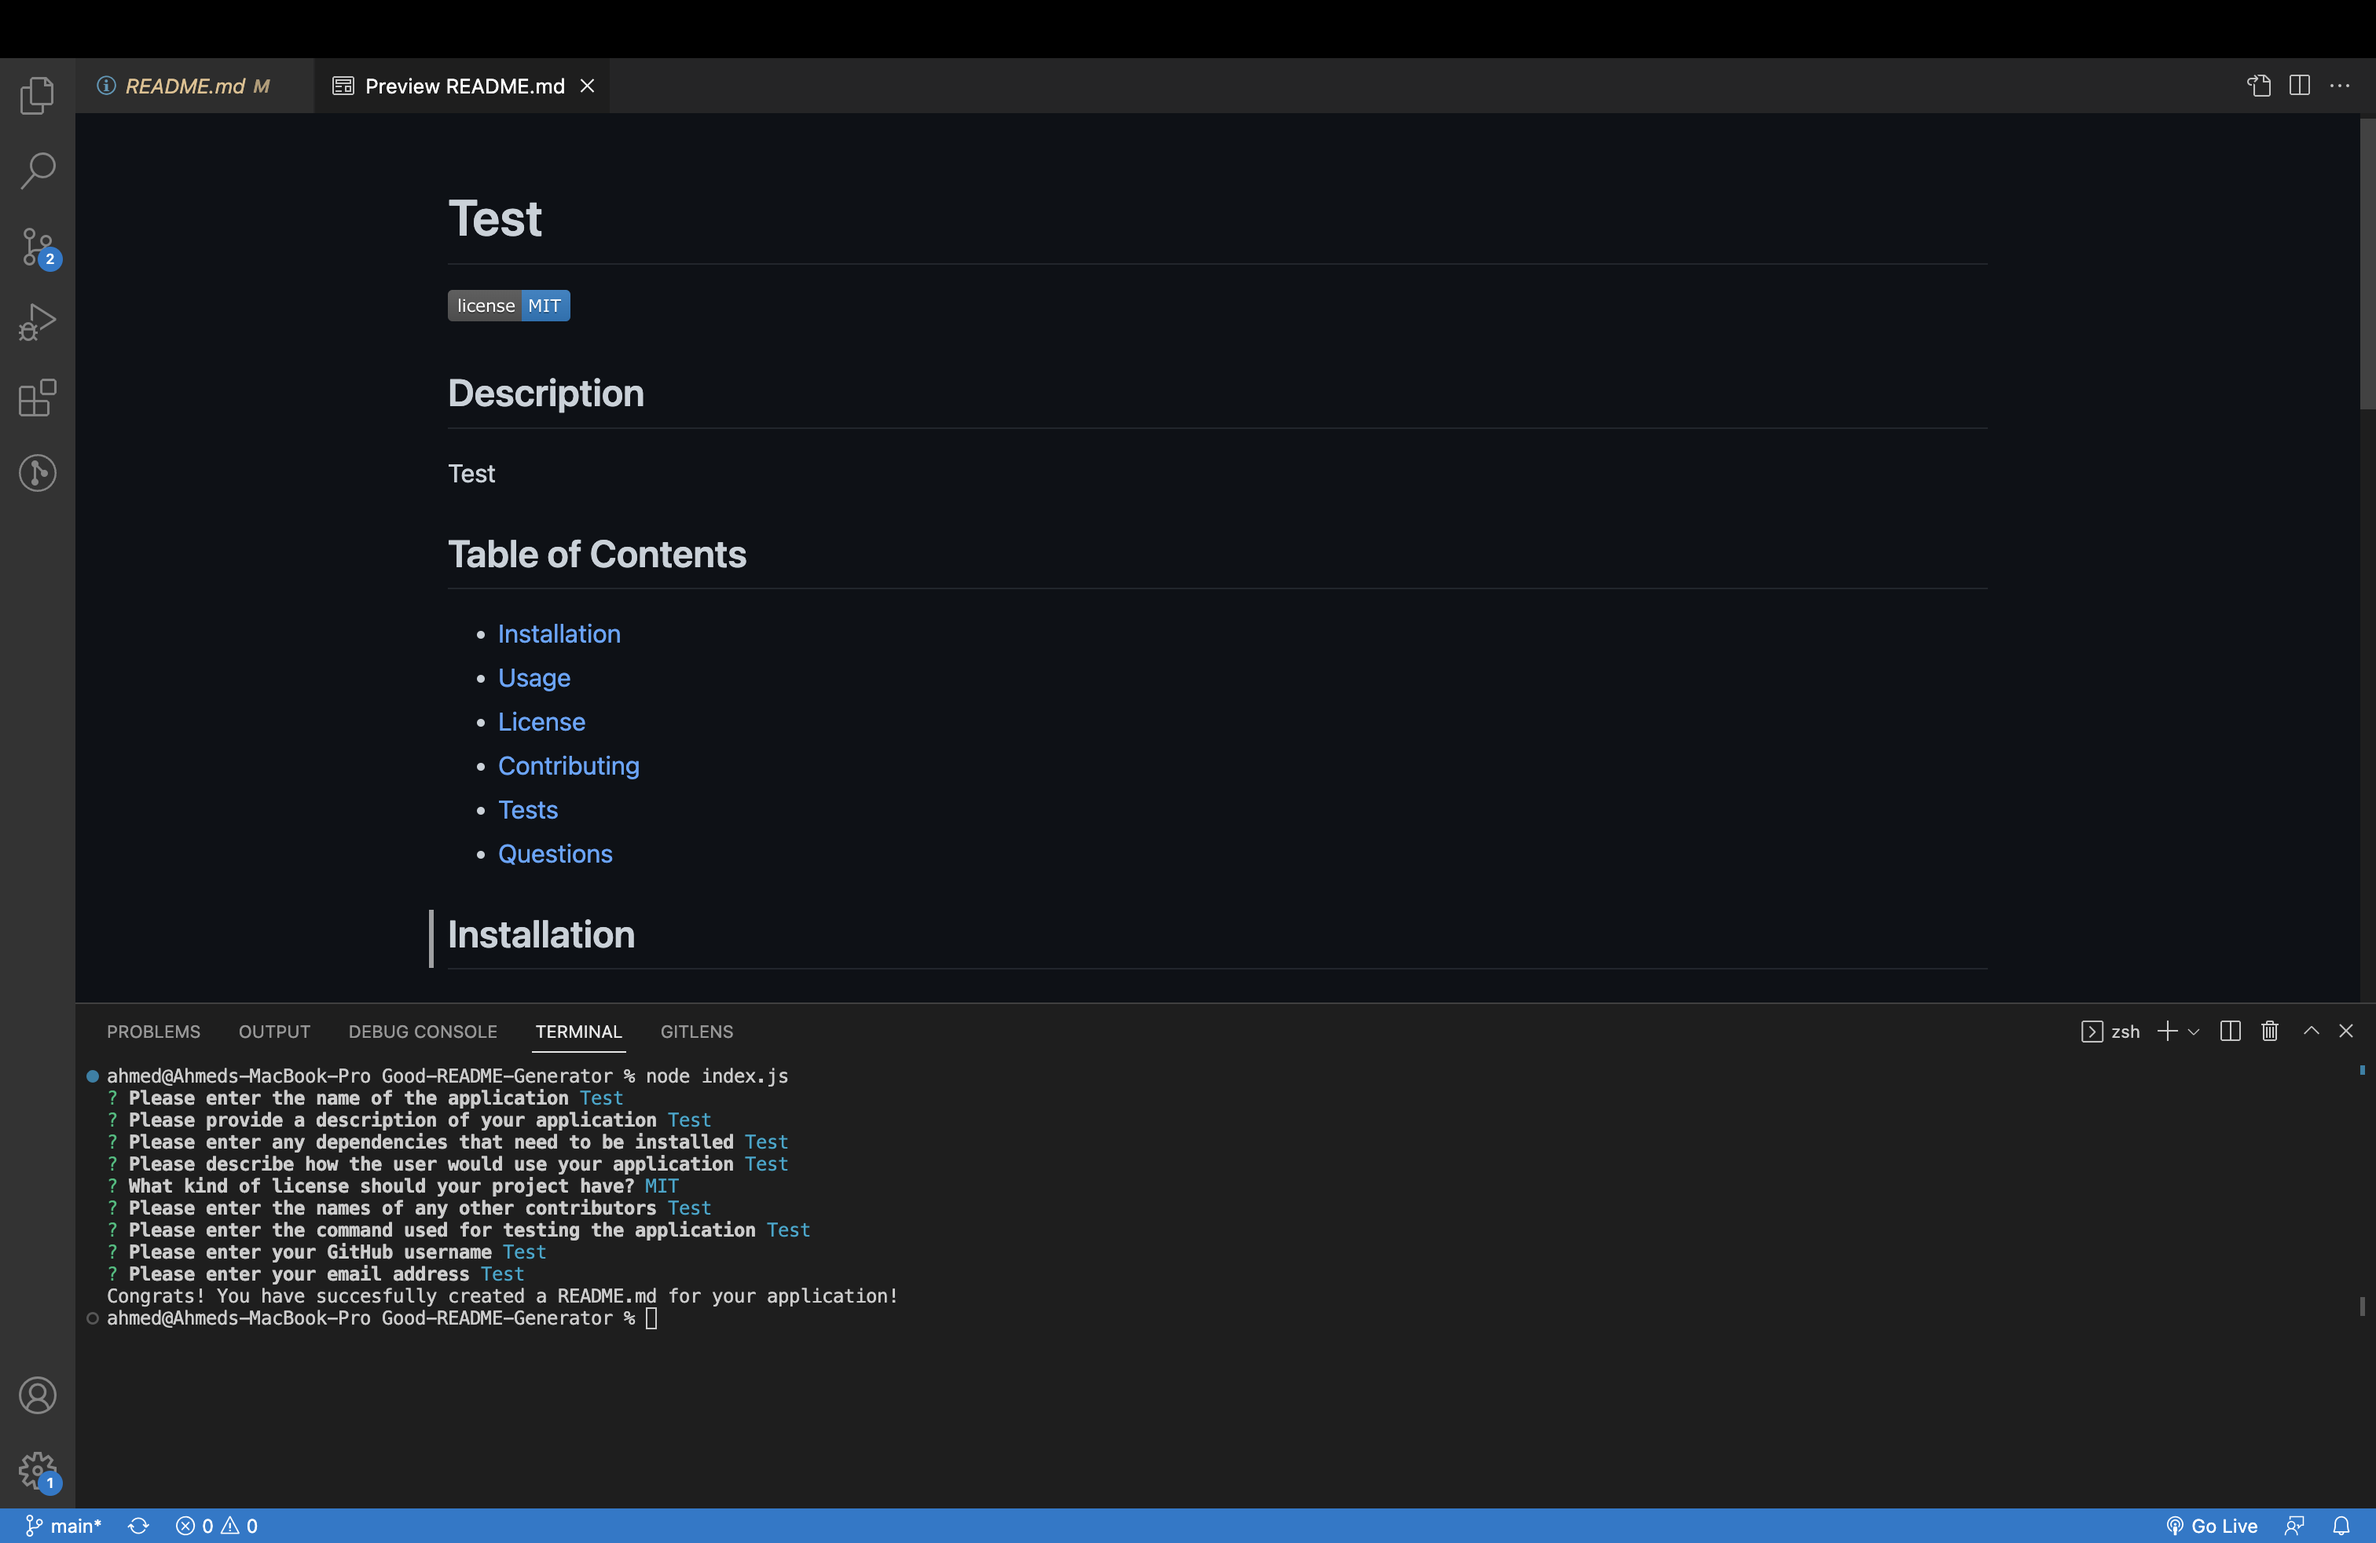
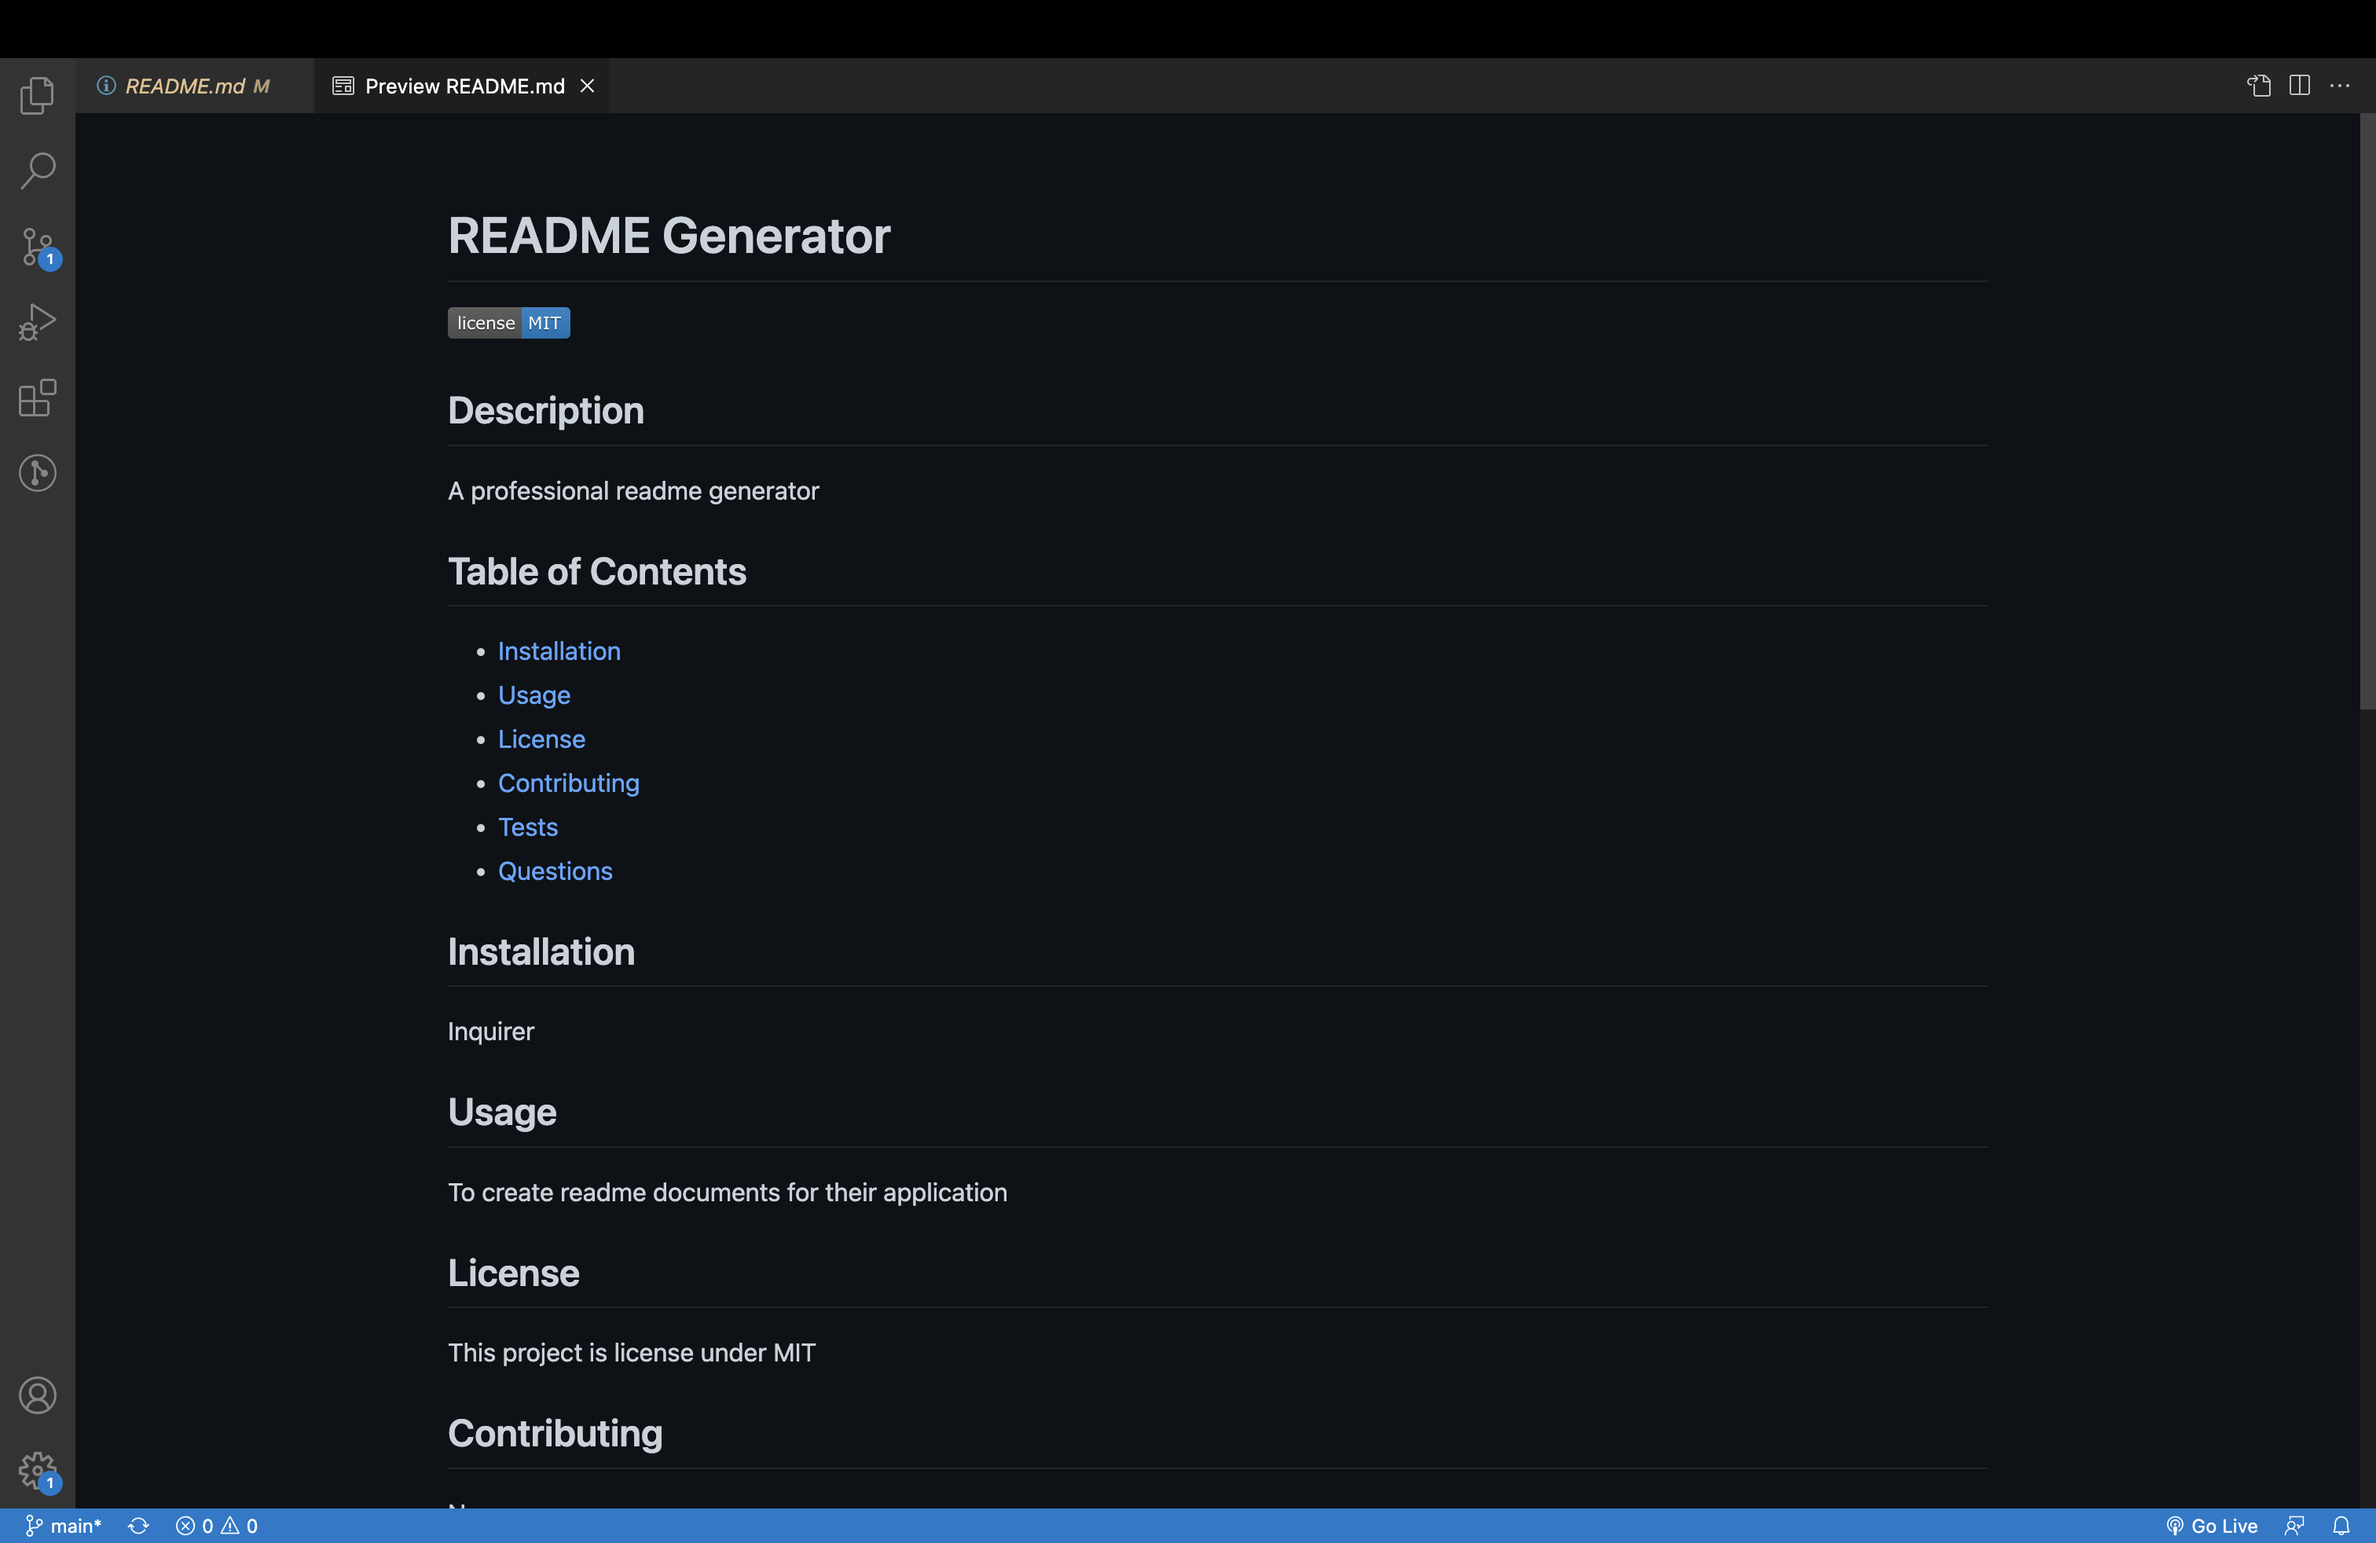
updated readme with the sample readme made invideo

diff --git a/README.md b/README.md
@@ -1,8 +1,8 @@
-# Test
+# README Generator
   ![GitHub licence](http://img.shields.io/badge/license-MIT-blue.svg)
   
   ## Description 
-  Test
+  A professional readme generator
   ## Table of Contents
   * [Installation](#installation)
   * [Usage](#usage)
@@ -12,15 +12,15 @@
   * [Questions](#questions)
   
   ## Installation 
-  Test
+  Inquirer
   ## Usage 
-  Test
+  To create readme documents for their application
   ## License 
   This project is license under MIT
   ## Contributing 
-  Test
+  None
   ## Tests
-  Test
+  node index.js
   ## Questions
 
-  Please feel free to message me any questions via my GitHub https://github.com/Test or send me an email at Test.
+  Please feel free to message me any questions via my GitHub https://github.com/Ahmeds226 or send me an email at iahmed.s226@icloud.com.
